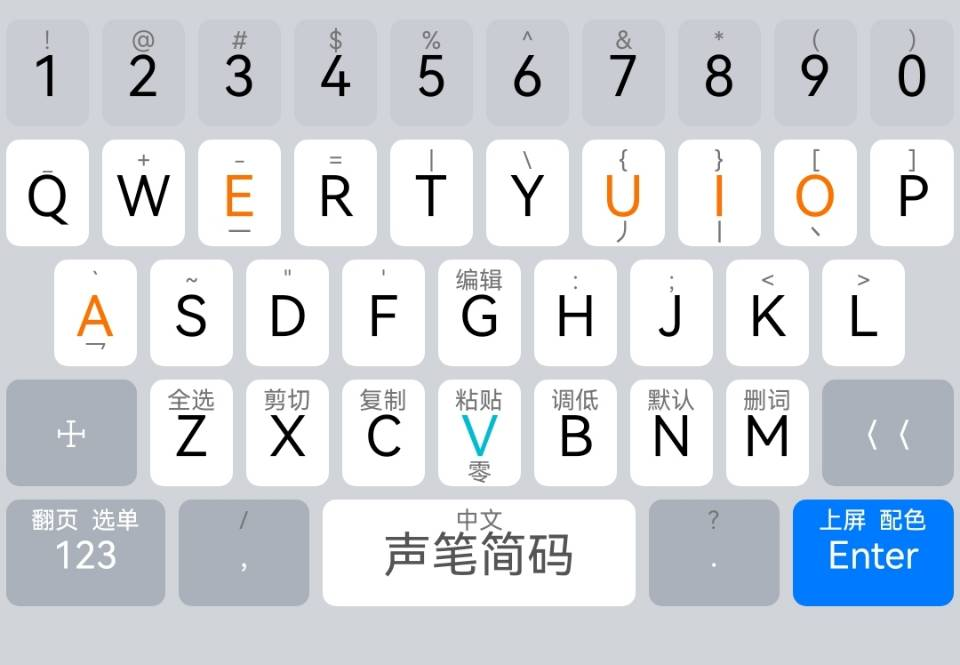
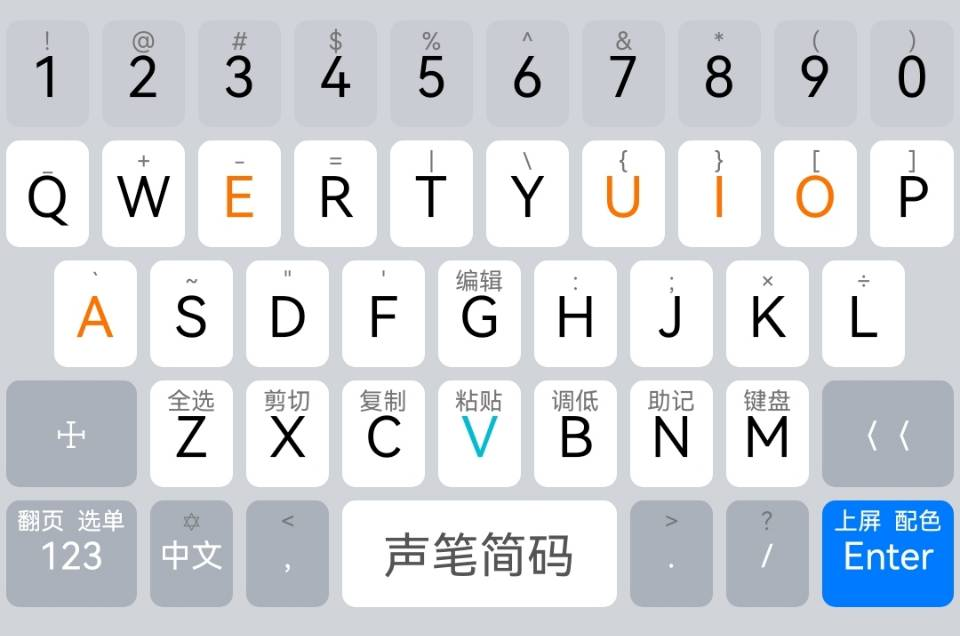
Site updated: 2022-07-07 01:36:30

diff --git a/sbjm/index.html b/sbjm/index.html
@@ -141,14 +141,11 @@ var _hmt = _hmt || [];
 <meta property="og:image" content="http://sbxlm.gitee.io/images/SbjmJiao.png">
 <meta property="og:image" content="http://sbxlm.gitee.io/images/SgShij.png">
 <meta property="og:image" content="http://sbxlm.gitee.io/images/SbjmSjoo.png">
-<meta property="og:image" content="http://sbxlm.gitee.io/images/SbjmJua.gif">
-<meta property="og:image" content="http://sbxlm.gitee.io/images/SbjmSjo.png">
+<meta property="og:image" content="http://sbxlm.gitee.io/images/image-20220707001907829.png">
+<meta property="og:image" content="http://sbxlm.gitee.io/images/image-20220707002222056.png">
 <meta property="og:image" content="http://sbxlm.gitee.io/images/image-20220402140625561.png">
-<meta property="og:image" content="http://sbxlm.gitee.io/images/image-20220206095909817.png">
-<meta property="og:image" content="http://sbxlm.gitee.io/images/image-20211225174600435.png">
-<meta property="og:image" content="http://sbxlm.gitee.io/images/image-20211225174634078.png">
-<meta property="og:image" content="http://sbxlm.gitee.io/images/image-20220315110227687.png">
-<meta property="og:updated_time" content="2022-06-26T00:55:29.703Z">
+<meta property="og:image" content="http://sbxlm.gitee.io/images/image-20220707003751544.png">
+<meta property="og:updated_time" content="2022-07-06T16:57:25.775Z">
 <meta name="twitter:card" content="summary">
 <meta name="twitter:title" content="声笔简码">
 <meta name="twitter:description" content="1 概述声笔简码通过巧妙的顶功编码技术，在保持输入法极度简单的情况下，取得了输入的高效率，达到了「比全拼还易学，比五笔更高效」的理想目标，而且能够以最小的代价克服「提笔忘字和见字忘音」的难题，是广大一般用户输入中文的最佳选择。 2 优势声笔简码的优势可以总结为：简单性、高效性和知识性。它比拼音更简单，比五笔更高效，还有利于人们巩固语文知识。 2.1 比拼音更简单声笔简码非常简单，具有易学、易用的优">
@@ -805,7 +802,7 @@ var _hmt = _hmt || [];
 <p>对于笔画不是很熟悉的人来说，有个别汉字和偏旁部首的笔顺容易弄错，在<a href="../sbjc/">声笔基础</a>的附录二中罗列了出来，建议对不熟习笔画的人专门注意一下。熟练掌握正确的汉字笔画，不仅是学习中文的目标之一，也是用好声笔简码和声笔其它输入方案的前提条件，必须高度重视。因为笔画和笔顺是一种语文知识，所以系统没有为其提供容错码，即用户必须使用正确的笔画和笔顺才能输入，纠正错误的过程也是学习知识的过程。</p>
 <h3 id="3-2-缩减编码"><a href="#3-2-缩减编码" class="headerlink" title="3.2 缩减编码"></a>3.2 缩减编码</h3><p>声笔简码中的缩减编码（又称为缩减码），可以缩短字词的输入码，类似于搜狗拼音中的固顶字词或者五笔字型中的简码字（或称简码）。</p>
 <p>声笔简码的单字有一、二、三级简码，分别称为一简字、二简字和三简字。一简字的例子有<code>就j 我w 没m</code>。二简字的例子有<code>从cu 此ci 起qe 来le</code>。三简字的例子有<code>机jei 威weu 凝noe 关gou</code>。</p>
-<p>声笔简码的二字词有二、三级简码。二简二字词的例子有<code>关系gx 参加cj 东西dx 还有hy</code>。三简二字词的例子有<code>高兴gxo 设计sjo 模范mfe 决定jdo</code>。</p>
+<p>声笔简码的二字词有二、三级简码。二简二字词的例子有<code>高兴gx 促进cj 对象dx 怀疑hy</code>。三简二字词的例子有<code>关心gxo 设计sjo 模范mfe 简单jdo</code>。</p>
 <p>声笔简码的三字词只有三简，其例子有<code>无名氏wms 客运量kyl 谢谢你xxn</code>。</p>
 <p>声笔简码的多字词没有缩减编码。</p>
 <p>在使用声笔简码时，要尽量使用单字和二字词的缩减编码，对输入效率的提升帮助很大。三字词的缩减编码一般只用于区分常用词的重码，其它时候不用更好。缩减码不但缩短了码长，而且有利于提高键速，因为缩减码是静态编码，不会发生改变，便于形成条件反射。</p>
@@ -834,7 +831,7 @@ var _hmt = _hmt || [];
 <p><img src="/images/image-20220326080353089.png" alt="image-20220326080353089"></p>
 <p><img src="/images/image-20220326080418448.png" alt="image-20220326080418448"></p>
 <h2 id="4-技能提升"><a href="#4-技能提升" class="headerlink" title="4 技能提升"></a>4 技能提升</h2><h3 id="4-1-续码顶屏"><a href="#4-1-续码顶屏" class="headerlink" title="4.1 续码顶屏"></a>4.1 续码顶屏</h3><p>在传统字词型输入法如五笔字型中，当字词的码长不足四时，需要用空格上屏，只有码长为四时的首选字词才能省略空格。在声笔简码中输入单字和词组时，只要加了笔画，在后续声母时都可以被顶上屏幕，无论是否达到最大码长都可以节约空格。所以说，声笔简码具有「顶功」，可以大大地提高输入效率。</p>
-<p>例如，五笔字型的二码字「吧kc 给xw」和三码字「华wxf 动fcl」在后接首码时都是需要空格上屏的。声笔简码中的二码字，如「从cu 此ci」和三码字「接jei 威weu」，在后接声母时都是不需要空格的。另外，声笔简码中的三码二字词，如「高兴gxo 计算jsu」，也是不需要空格的。</p>
+<p>例如，五笔字型的二码字「吧kc 给xw」和三码字「华wxf 动fcl」在后接首码时都是需要空格上屏的。声笔简码中的二码字，如「从cu 此ci」和三码字「接jei 威weu」，在后接声母时都是不需要空格的。另外，声笔简码中的三码二字词，如「关心gxo 接受jsu」，也是不需要空格的。</p>
 <p>再如，同样是用纯单字输入「中国人民站起来了。」这句话。用五笔字型输入时的用键为<code>k_l_w_n_uh_fhn_go_b.</code>，共使用了 20 键。用声笔简码输入时的用键为<code>zigir_mazoeqelel.</code>，共使用了 17 键，其中「站」字也有可能是用 4、5 键，因为大于二码的字输入码不是固定的。用搜狗拼音输入时，则完全没有固定的输入方法，它所有字的编码默认都是动态变化的，所以它的用键会在 17 到数十键不等。</p>
 <p>正是由于续码顶屏的优势，使得声笔简码的纯单字输入平均码长在没有动态码长调整的情况下也只有3.1678，低于五笔字型的3.2658。这是一个让人吃惊的结果，因为声笔简码的单字输入是其弱项，居然比历史上以快速著称的五笔字型单字码长还短。</p>
 <h3 id="4-2-字母选重"><a href="#4-2-字母选重" class="headerlink" title="4.2 字母选重"></a>4.2 字母选重</h3><p>传统输入法通常都是用数字键来选择重码字词。由于击打数字键需要跨行进行，手指移动距离远，容易产生误击，一般人都无法盲打，所以会严重影响输入速度。搜狗拼音虽然可以设置用字母选择重码字词，但是必须先用空格键引导，效果大打折扣。</p>
@@ -849,16 +846,14 @@ var _hmt = _hmt || [];
 <p>而在声笔简码中，输入sjoo后，可能的结果如下。</p>
 <p><img src="/images/SbjmSjoo.png" alt="声笔简码Sjoo"></p>
 <p>此时，如果要输入「视觉」一词，则用<code>e</code>进行选择；如果要输入「圣洁」一词，则用<code>o</code>进行选择。</p>
-<h3 id="4-3-动态码长"><a href="#4-3-动态码长" class="headerlink" title="4.3 动态码长"></a>4.3 动态码长</h3><p>在声笔简码中，若采用了三顶模式，则当某个字词在输入时若码长大于三，它的码长可能会被自动缩短，下次输入该字词时就可以少用按键了，其它的字词输入码则依次向后推移。这就是所谓的动态码长调整。</p>
-<p>例如，在第一次输入「狡」字时，如果是用<code>juau</code>后选择<code>a</code>上屏的，那么下次输入可能就只需要<code>juau</code>了，再下次输入就只要<code>jua</code>了。可见，自动码长可以大大地缩短码长，有效地提高输入速度。</p>
-<p><img src="/images/SbjmJua.gif" alt="声笔简码jua"></p>
-<p>搜狗拼音的调频与自动码长有些类似，而五笔字型则没有动态调整功能。搜狗拼音在输入<code>jiao</code>后需要翻页 7 次再用数字键选择才能将「狡」字上屏，然后再输入<code>j</code>时，「狡」字就出现在第一页上了，但是仍然要用数字选择上屏。五笔字型在输入「狡」字时，始终使用<code>qtu</code>加空格。</p>
-<p>再如，在第一次输入「视觉」一词时，如果是用<code>sjoo</code>后选择<code>e</code>上屏的，那么下次输入可能就只需要<code>sjo</code>就可以了，节约了两键，如下所示。</p>
-<p><img src="/images/SbjmSjo.png" alt="声笔简码Sjo"></p>
-<p>如果第一次输入某个字词时需要多次翻页，那么节约的用键就更多了。动态码长调整对用扩展编码输入的字词也是有效的。比如， 「揪」 字，在用<code>jeieue</code> 输入后，下次输入时可能就只需要用<code>jei</code>就可以了。当然，如果此后<code>jei</code>又因自动码长调整被别的单字所用的话，「揪」字就会被向后推到<code>jeie</code>上去。</p>
+<h3 id="4-3-动态码长"><a href="#4-3-动态码长" class="headerlink" title="4.3 动态码长"></a>4.3 动态码长</h3><p>如果某个字词首次输入的时候采用了扩展编码，那么下次输入可能就只需要四键了。这就是所谓的动态码长调整，可以适应用户的使用习惯，从而提高其输入效率。</p>
+<p>比如， 「揪」 字，在用<code>jeieue</code> 输入后，下次输入时可能就只需要用<code>jeie</code>就可以了。当然，如果此后<code>jei</code>e又因自动码长调整被别的单字所用的话，「揪」字就会被向后推到重码字的后面去。 </p>
+<p><img src="/images/image-20220707001907829.png" alt="image-20220707001907829"></p>
+<p>再如， 「转折」一词，在用<code>zzeiea</code> 输入后，下次输入时可能就只需要用<code>zzea</code>就可以了。</p>
+<p><img src="/images/image-20220707002222056.png" alt="image-20220707002222056"></p>
 <h3 id="4-4-自动词组"><a href="#4-4-自动词组" class="headerlink" title="4.4 自动词组"></a>4.4 自动词组</h3><p>声笔简码具有自动词组功能。也就是说，它能够利用用户之前输入的字词来自动创造新的词组，同时也能够将用户几乎不使用的新造词组自动清除。对于少量暂时还未被清理的废词，用户不必理会，到时限后就会被自动删除。在必要的时候，如用户错误地确认了临时词组，系统也提供了手动删除的手段，方法是先将光标移动到该词上面，再按<code>Control + Delete</code>键来删除。注意，如果是非临时词组，需要删除两次才能删除。第一次删除时只是把它变成了临时词组。在安卓手机上的删除方法是，用左右滑动空格定位词组，再用删词键来删除。</p>
-<p>例如，如果要造「声笔」一词，可以先按单字方式输入声和笔。然后，按词组方式输入<code>sbue</code>，由于系统词的重码已经超过一页，需要翻页找到声笔一词，或者追加「声」的前两笔<code>ei</code>来快速过滤重码，快速找到造好的词组，或者用<code>Shift+Tab</code>快速定位到重码词的末尾。在选择输入一次新造的「声笔」后，它的码长就会动态地缩短，下次输入的时候可能就只需要<code>sbu</code>或者<code>sbue</code>了。</p>
-<p>再如，要造「声笔码」的话，若前面已经造好了「声笔」，所以可以拆成「声笔」和「码」来输入。然后，按三字词方式输入<code>sbme</code>，按<code>Shift+Tab</code>快速定位新词，可见临时词组「声笔码」已经造好了。选择上屏一次后，「声笔码」就会成为正常的词组，而且它的输入码长可能缩短。</p>
+<p>例如，如果要造「声笔」一词，可以先按单字方式输入声和笔。然后，按词组方式输入<code>sbue</code>，由于系统词的重码已经超过一页，需要翻页找到声笔一词，或者追加「声」的前两笔<code>ei</code>来快速过滤重码，快速找到造好的词组，或者用<code>Shift+Tab</code>快速定位到重码词的末尾。在选择输入一次新造的「声笔」后，它的码长就会动态地缩短，下次输入的时候可能就只需要<code>sbue</code>了。</p>
+<p>再如，要造「声笔码」的话，若前面已经造好了「声笔」，所以可以拆成「声笔」和「码」来输入。然后，按三字词方式输入<code>sbme</code>，按<code>Shift+Tab</code>快速定位新词，可见临时词组「声笔码」已经造好了。选择上屏一次后，「声笔码」就会成为正常的词组。</p>
 <p>最后，如果要造「声笔简码」一词，可以先输入「声笔」和「简码」。下次按多字词方式输入<code>sbjm</code>时就有「声笔简码」 一词了。</p>
 <p>当然，在用户不知道系统中有某个词组的时候，如果按照词组的方式来输入，就可能因为系统没有该词而找不到想要的词组，即发生所谓打空的情况。此时，建议用<code>ESC</code>键一次清楚编码，拆开打一次就能够自动造出想要的词组，供下次使用。</p>
 <p>需要注意的是，为了避免发生组合爆炸，产生太多的垃圾词组，系统默认限制了自动造词的最大长度为5，且不能有非汉字字符。另外，在进行枚举式自动造词的时候，是以编码对应的字、词为单位来进行组合的，并不是以单字为单位的。例如，在输入<code>声笔sbu 系列xleu 码meu</code>后，生成的词组为「声笔系列码」「声笔系列」「系列码」，而不会生成「声笔系」「笔系列」「列码」等。另外，如果造词之后马上使用了退格键，系统就会自动删除所造的词组；中间夹杂有非汉字的话，也会中断造词。</p>
@@ -867,25 +862,17 @@ var _hmt = _hmt || [];
 <p><img src="/images/image-20220402140625561.png" alt="image-20220402140625561"></p>
 <h3 id="4-6-编码变换"><a href="#4-6-编码变换" class="headerlink" title="4.6 编码变换"></a>4.6 编码变换</h3><p>为了在输入中文时节约用键和避免回改，声笔简码提供了巧妙的编码变换方法，主要通过 Enter 键（回车键）和 Tab 键（制表键）来实现。这样做，实际上也分化了重码，增加了确定性。大量不是词的组合都可以通过这种方式来进行输入，从而有效地利用编码空间。注意，这个时候是没有提示的，需要用户对简字和简词非常熟习才行。</p>
 <ul>
-<li>两个一简字的组合，可以用两字的声母加回车来输入。例如，「就是」[一下]「出发」「我是」「发就」等等都可以这样输入。</li>
-<li>一简字加二简词的组合，可以用三字的声母加回车来输入。例如，「不一样」「是什么」「的时候」「下开发」等等都可以这么输入。</li>
-<li>二简词加一简字的组合，可以用三字的声母加Tab来输入。例如，「我们是」「不要去」「为了我」「美丽的」等等都可以这么输入。</li>
-<li>在开启数选字词（见下述高级选项里的增强模式）的时候，数字出现在二三码时失去了顶屏的能力，出于使用的惯性，常常发生误顶的情况，这时可以用回车来恢复数字，以避免回改。例如，输入 <code>w9</code> 本来是想用3来顶「我」字上屏，但是与数选字「望」冲突了，这时就可以用回车将其变换为「我9」。再如，输入<code>fz7</code>本来是想用7来顶「发展」上屏的，但是与数选词「复杂」冲突了，这时就可以用回车将其变换为「发展7」。</li>
+<li>两个一简字的组合，可以用两字的声母加回车或者Tab来输入。例如，「就是」[一下]「出发」「我是」「发就」等等都可以这样输入。</li>
+<li>一简字加二简词的组合，可以用三字的声母加回车来输入。例如，「是由于」「的数据」等等。</li>
+<li>二简词加一简字的组合，可以用三字的声母加Tab来输入。例如，「它们是」「必要的」等等都可以这么输入。</li>
+<li>两个二简词的组合，可以用四个字的声母加回车来输入。例如，「恢复数据」「研究精神」等等。</li>
 </ul>
 <h2 id="5-增强模式"><a href="#5-增强模式" class="headerlink" title="5 增强模式"></a>5 增强模式</h2><p>在用户对简码非常熟悉以后，可能会觉得动态字和动态二字词的变化过于频繁，使得一些常用的字词都不能形成条件反射，过多的提示行查看对提高击键速度有不利的影响。究其原因，是因为简码的单字和二字词的三码编码空间很小，而单字和二字词的数量很大。简码的增强模式就是为高级用户解决这个问题的，其思路是增加高频静态字、词的数量。</p>
 <p>如果要临时使用增强模式，在电脑上可以用Ctrl+~或F4，在手机上直接点击状态栏的「常规/增强」项，就可以切换状态了。如果要将增强模式设置为默认状态，只要将sbjm.schema.yaml文件中的is_enhanced开关项的reset值由0改为1，并重新部署一下就可以了，如下图所示。</p>
-<p><img src="/images/image-20220206095909817.png" alt="image-20220206095909817"></p>
-<p>在增强模式下，简码提供了额外的静态字和静态二字词，在它们的编码中都以数字结尾，所以又称为数选字和数选词。数字<code>23789</code>为有理编码，它们与<code>aeuio</code>一一对应，代表五个笔画，而数字<code>14560</code>为无理选择，不与笔画对应。</p>
-<p>数选字词有利于提高击键速度和缩短平均码长，但是也会增加用户的记忆量和操作难度，同时让简码在一、二码时丧失了数字顶屏的能力。所以，不建议初学者使用增强模式，而且熟练者也需要循序渐进、量力而行，不要一上来就想把数选字词全部用起来，否则可能会适得其反。</p>
-<p>(1) 数选字</p>
-<p>简码的数选字有两码的，也有三码的。</p>
-<p>简码两码数选字有210个，都是使用频率很高的字，其编码格式为sn，即声母加数字，输入声母后就有提示。</p>
-<p><img src="/images/image-20211225174600435.png" alt="image-20211225174600435"></p>
-<p>简码三码数选字有992个，其中大多数是常用字，其编码格式为sbn，即声母加首笔加数字，输入声母和首笔后就有提示。</p>
-<p><img src="/images/image-20211225174634078.png" alt="image-20211225174634078"></p>
-<p>(2) 数选词 </p>
-<p>简码的数选词都是三码的二字词，其编码格式为ssn，即两字的声母加数字，其数量大，共计4397个，用户可择其常用者使用。</p>
-<p><img src="/images/image-20220315110227687.png" alt="image-20220315110227687"></p>
+<p><img src="/images/image-20220707003751544.png" alt="image-20220707003751544"></p>
+<p>在增强模式下，简码提供了额外的静态字和静态二字词，在它们的编码中都以数字结尾，所以又称为数选字和数选词。数选字词有利于提高击键速度和缩短平均码长，但是也会增加用户的记忆量和操作难度，同时让简码在一、二码时丧失了数字顶屏的能力。所以，不建议初学者使用增强模式，而且熟练者也需要循序渐进、量力而行，不要一上来就想把数选字词全部用起来，否则可能会适得其反。</p>
+<p>数选词有210个，为声笔输入法的所有方案共用，详见XXXX。</p>
+<p>数选字为声笔简码所特有，均为三码，前两码为声母和首笔，第三码为无理的数字选重，有多达1050个，可以有效的弥补声笔简码单字能力太弱的缺点，但是需要用户有更多的练习和记忆。</p>
 <h2 id="附录：声笔简码的编码格式"><a href="#附录：声笔简码的编码格式" class="headerlink" title="附录：声笔简码的编码格式"></a>附录：声笔简码的编码格式</h2><p>为了便于用户总结和记忆声笔简码的基本内容，现将在默认设置时的字词编码格式以浓缩的表达式方式总结如下。</p>
 <ul>
 <li>单字：<code>sb^b&#39;b(bb)</code>，即声母加前三个笔画，可选地加第四、五笔。</li>
